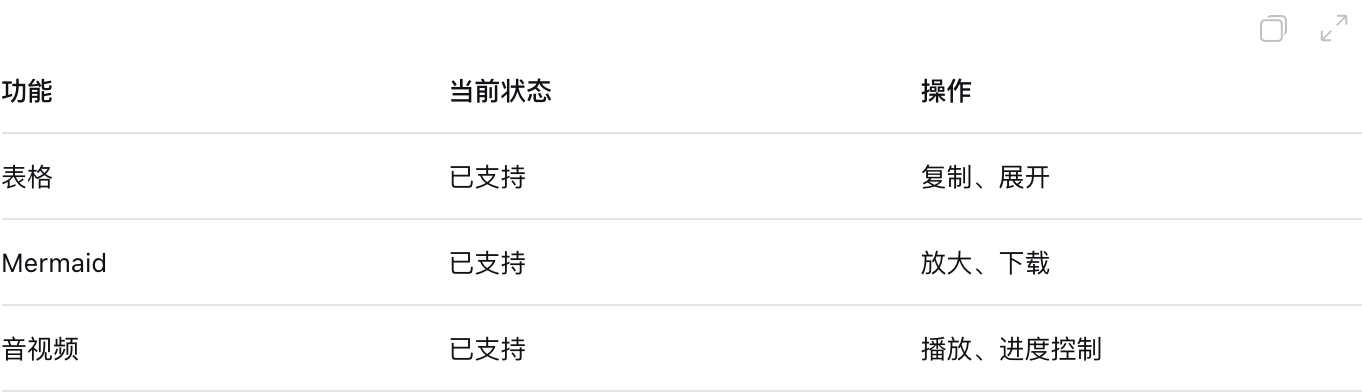
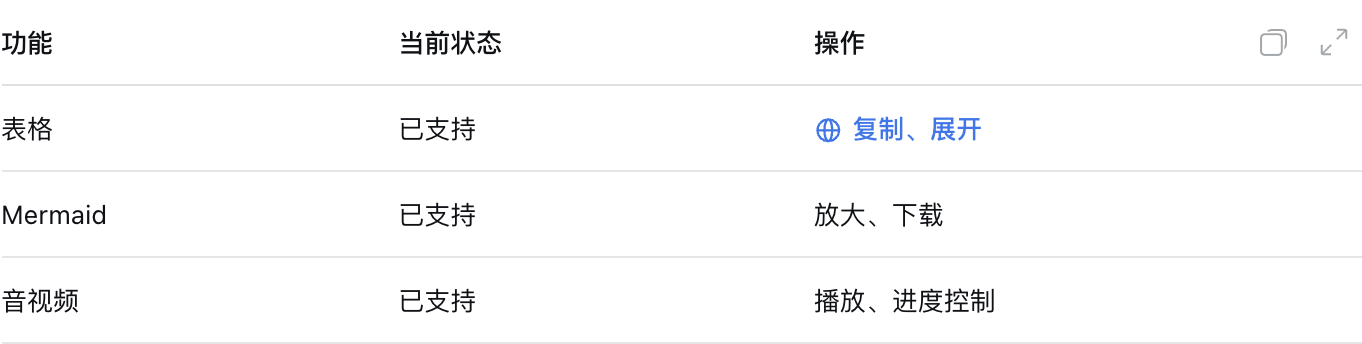
fix: 将表格操作栏对齐表头并保留预览原生样式
去掉独立操作栏的顶部留白，按表头尺寸定位按钮；短表格预览按内容取宽，并沿用 DSH 的 Markdown 字号与链接样式。

diff --git a/src/components.jsx b/src/components.jsx
@@ -28,11 +28,11 @@ export function Copy({getValue,label='复制'}) {
   return <Action label={status==='copied'?'已复制':status==='error'?'复制失败，点击重试':label} icon={status==='copied'?'check':'copy'} onClick={copy}/>;
 }
 
-export function Modal({title,children,actions,onClose}) {
+export function Modal({title,children,actions,onClose,className=''}) {
   const timer=useRef(),[closing,setClosing]=useState(false);
   useEffect(()=>()=>clearTimeout(timer.current),[]);
   const close=()=>{if(closing)return;setClosing(true);timer.current=setTimeout(onClose,matchMedia('(prefers-reduced-motion: reduce)').matches?0:160);};
-  return <DshModal open onClose={close} title={title} closeLabel="关闭预览" className={`dcr-dialog${closing?' dcr-closing':''}`}>
+  return <DshModal open onClose={close} title={title} closeLabel="关闭预览" className={`dcr-dialog ${className}${closing?' dcr-closing':''}`}>
     <div className="dcr-preview-actions dcr-actions">{actions}</div><div className="dcr-dialog-body">{children}</div>
   </DshModal>;
 }
@@ -41,19 +41,27 @@ function TablePreview({table}) {
   const target=useRef();
   useLayoutEffect(()=>{
     const original=Array.from(table.querySelectorAll('button')),clone=table.cloneNode(true);
-    clone.classList.add('dcr-preview-table');target.current.append(clone);
+    const markdown=table.closest('div[class*="_markdown_"]').cloneNode(false),frame=table.parentElement.cloneNode(false);
+    frame.classList.remove('dcr-table-owner');
+    clone.classList.add('dcr-preview-table');frame.append(clone);markdown.append(frame);target.current.append(markdown);
     const buttons=Array.from(clone.querySelectorAll('button'));
     const forward=event=>{const button=event.target.closest('button');if(button)original[buttons.indexOf(button)]?.click();};
     clone.addEventListener('click',forward);
-    return()=>{clone.removeEventListener('click',forward);clone.remove();};
+    return()=>{clone.removeEventListener('click',forward);markdown.remove();};
   },[table]);
   return <div ref={target} className="dcr-table-preview" tabIndex="0" role="region" aria-label="表格内容"/>;
 }
 
 export function TableTools({table}) {
-  const [expanded,setExpanded]=useState(false);
-  return <><div className="dcr-table-tools"><Copy label="复制表格" getValue={()=>tableClipboard(table)}/><Action label="展开表格" icon="expand" onClick={()=>setExpanded(true)}/></div>
-    {expanded&&<Modal title="表格预览" onClose={()=>setExpanded(false)} actions={<Copy label="复制表格" getValue={()=>tableClipboard(table)}/>}><TablePreview table={table}/></Modal>}</>;
+  const [expanded,setExpanded]=useState(false),[top,setTop]=useState(0);
+  useLayoutEffect(()=>{
+    const header=table.tHead.rows[0],owner=table.parentElement;
+    const align=()=>{const row=header.getBoundingClientRect(),container=owner.getBoundingClientRect();setTop(row.top-container.top+(row.height-28)/2);};
+    align();const observer=new ResizeObserver(align);observer.observe(header);observer.observe(owner);
+    return()=>observer.disconnect();
+  },[table]);
+  return <><div className="dcr-table-tools" style={{top}}><Copy label="复制表格" getValue={()=>tableClipboard(table)}/><Action label="展开表格" icon="expand" onClick={()=>setExpanded(true)}/></div>
+    {expanded&&<Modal className="dcr-table-dialog" title="表格预览" onClose={()=>setExpanded(false)} actions={<Copy label="复制表格" getValue={()=>tableClipboard(table)}/>}><TablePreview table={table}/></Modal>}</>;
 }
 
 function saveBlob(blob,name) {

diff --git a/src/styles.css b/src/styles.css
@@ -1,24 +1,22 @@
 /* Reply content stays in DSH's native Markdown layout. */
 .dcr-source { min-width: 0; }
 .dcr-native-hidden { display: none !important; }
-.dcr-table-owner { position: relative; padding-top: 24px; }
-.dcr-table-tools { position: absolute; top: 0; right: 0; display: flex; gap: 2px; opacity: 0; transition: opacity var(--ds-transition-duration, 150ms); }
+.dcr-table-owner { position: relative; }
+.dcr-table-owner table thead th:last-child { padding-inline-end: 68px; }
+.dcr-table-tools { position: absolute; right: 0; display: flex; gap: 2px; opacity: 0; pointer-events: none; transition: opacity var(--ds-transition-duration, 150ms); }
 .dcr-table-owner:hover .dcr-table-tools,
-.dcr-table-owner:focus-within .dcr-table-tools { opacity: 1; }
+.dcr-table-owner:focus-within .dcr-table-tools { opacity: 1; pointer-events: auto; }
 .dcr-action { width: 28px; min-width: 28px; padding: 0; flex: none; color: var(--dsw-alias-label-secondary); }
 .dcr-actions { display: flex; align-items: center; gap: 2px; flex: none; }
 
 /* Only size the native Modal; its chrome, mask and focus handling remain native. */
 .dcr-dialog { width: min(960px, calc(100vw - 48px)); max-height: 100%; }
+.dcr-dialog.dcr-table-dialog { width: fit-content; min-width: min(420px, calc(100vw - 48px)); max-width: min(1100px, calc(100vw - 48px)); }
 .dcr-preview-actions { position: absolute; top: 22px; right: 48px; }
 .dcr-dialog-body { min-height: 0; max-height: min(70vh, 680px); overflow: auto; overscroll-behavior: contain; }
 .dcr-dialog.dcr-closing { animation: dcr-close 160ms var(--ds-ease-in-out, ease) forwards; }
-.dcr-preview-table { width: max-content; min-width: 100%; border-collapse: collapse; font: var(--dsw-font-markdown-body, 14px/24px var(--dsw-font-family)); }
-.dcr-preview-table th,
-.dcr-preview-table td { padding: 10px 24px 10px 0; border-bottom: .5px solid var(--dsw-alias-border-l2); vertical-align: top; }
-.dcr-preview-table th { position: sticky; top: 0; z-index: 1; background: var(--dsw-alias-bg-layer-2); font-weight: 500; text-align: start; }
-.dcr-preview-table [align=center] { text-align: center; }
-.dcr-preview-table [align=right] { text-align: right; }
+.dcr-preview-table { width: max-content; min-width: 100%; border-collapse: collapse; }
+.dcr-preview-table th { position: sticky; top: 0; z-index: 1; background: var(--dsw-alias-bg-layer-2); }
 .dcr-preview-table button { cursor: pointer; }
 
 /* Graphs and media use the same quiet surface as DSH's code cards. */
@@ -57,5 +55,5 @@
 .dcr-setting-title { font-size: 14px; line-height: 20px; font-weight: 400; }
 .dcr-setting-description { margin-top: 4px; color: var(--dsw-alias-label-secondary); font-size: 12px; line-height: 18px; }
 @keyframes dcr-close { to { opacity: 0; } }
-@media (hover: none) { .dcr-table-tools { opacity: 1; } }
+@media (hover: none) { .dcr-table-tools { opacity: 1; pointer-events: auto; } }
 @media (prefers-reduced-motion: reduce) { .dcr-closing { animation: none !important; } .dcr-table-tools { transition: none; } }
